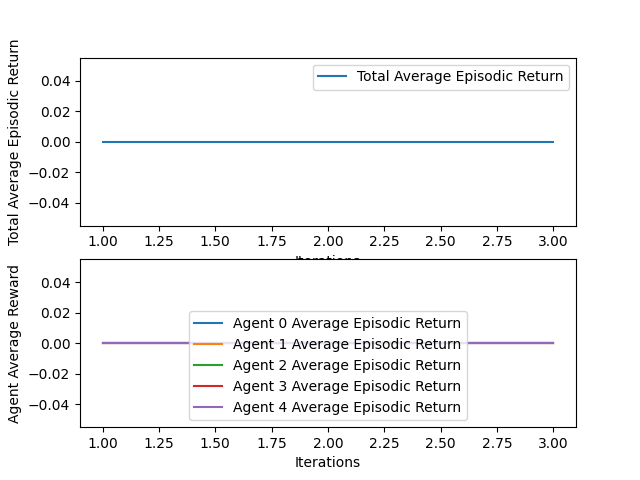
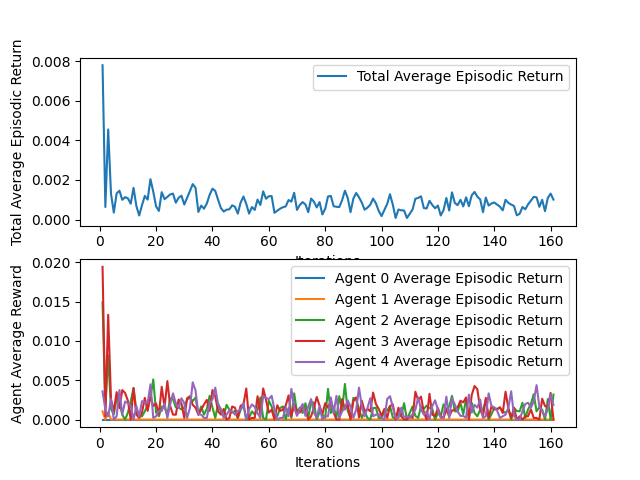
prelim results from bayes approach

diff --git a/marl_mpe/social_dilemma/train.py b/marl_mpe/social_dilemma/train.py
@@ -54,7 +54,10 @@ checkpoint_dir = f"/home/angelsylvester/Documents/dynamic-rl/marl_mpe/checkpoint
 
 # Create the directory if it doesn't exist
 os.makedirs(checkpoint_dir, exist_ok=True)
-checkpoints = ['marl_mpe/checkpoints/env_type_social-dilemma_num_agents_5_bayes_True_gifting_False_envused_harvest_70/ppo_actor_70_agent_0.pth', 'marl_mpe/checkpoints/env_type_social-dilemma_num_agents_5_bayes_True_gifting_False_envused_harvest_70/ppo_actor_70_agent_1.pth', 'marl_mpe/checkpoints/env_type_social-dilemma_num_agents_5_bayes_True_gifting_False_envused_harvest_70/ppo_actor_70_agent_2.pth', 'marl_mpe/checkpoints/env_type_social-dilemma_num_agents_5_bayes_True_gifting_False_envused_harvest_70/ppo_actor_70_agent_3.pth', 'marl_mpe/checkpoints/env_type_social-dilemma_num_agents_5_bayes_True_gifting_False_envused_harvest_70/ppo_actor_70_agent_4.pth']
-critics = ['marl_mpe/checkpoints/env_type_social-dilemma_num_agents_5_bayes_True_gifting_False_envused_harvest_70/ppo_critic_70_agent_0.pth', 'marl_mpe/checkpoints/env_type_social-dilemma_num_agents_5_bayes_True_gifting_False_envused_harvest_70/ppo_critic_70_agent_1.pth', 'marl_mpe/checkpoints/env_type_social-dilemma_num_agents_5_bayes_True_gifting_False_envused_harvest_70/ppo_critic_70_agent_2.pth', 'marl_mpe/checkpoints/env_type_social-dilemma_num_agents_5_bayes_True_gifting_False_envused_harvest_70/ppo_critic_70_agent_3.pth', 'marl_mpe/checkpoints/env_type_social-dilemma_num_agents_5_bayes_True_gifting_False_envused_harvest_70/ppo_critic_70_agent_4.pth']
+# checkpoints = ['marl_mpe/checkpoints/env_type_social-dilemma_num_agents_5_bayes_True_gifting_False_envused_harvest_70/ppo_actor_70_agent_0.pth', 'marl_mpe/checkpoints/env_type_social-dilemma_num_agents_5_bayes_True_gifting_False_envused_harvest_70/ppo_actor_70_agent_1.pth', 'marl_mpe/checkpoints/env_type_social-dilemma_num_agents_5_bayes_True_gifting_False_envused_harvest_70/ppo_actor_70_agent_2.pth', 'marl_mpe/checkpoints/env_type_social-dilemma_num_agents_5_bayes_True_gifting_False_envused_harvest_70/ppo_actor_70_agent_3.pth', 'marl_mpe/checkpoints/env_type_social-dilemma_num_agents_5_bayes_True_gifting_False_envused_harvest_70/ppo_actor_70_agent_4.pth']
+# critics = ['marl_mpe/checkpoints/env_type_social-dilemma_num_agents_5_bayes_True_gifting_False_envused_harvest_70/ppo_critic_70_agent_0.pth', 'marl_mpe/checkpoints/env_type_social-dilemma_num_agents_5_bayes_True_gifting_False_envused_harvest_70/ppo_critic_70_agent_1.pth', 'marl_mpe/checkpoints/env_type_social-dilemma_num_agents_5_bayes_True_gifting_False_envused_harvest_70/ppo_critic_70_agent_2.pth', 'marl_mpe/checkpoints/env_type_social-dilemma_num_agents_5_bayes_True_gifting_False_envused_harvest_70/ppo_critic_70_agent_3.pth', 'marl_mpe/checkpoints/env_type_social-dilemma_num_agents_5_bayes_True_gifting_False_envused_harvest_70/ppo_critic_70_agent_4.pth']
+
+checkpoints = []
+critics = []
 model = PPO(policy_class=FeedForwardNN, env=env, num_agents = num_agents, policy_type=policy_type, roles = False, checkpoint_dir = checkpoint_dir, gifting = globals.gifting, time_delay = time_delay, share_orientation= share_orientation, env_type = env_type, checkpoints = checkpoints, critics=critics)
 model.learn(total_timesteps=200_000_000)
